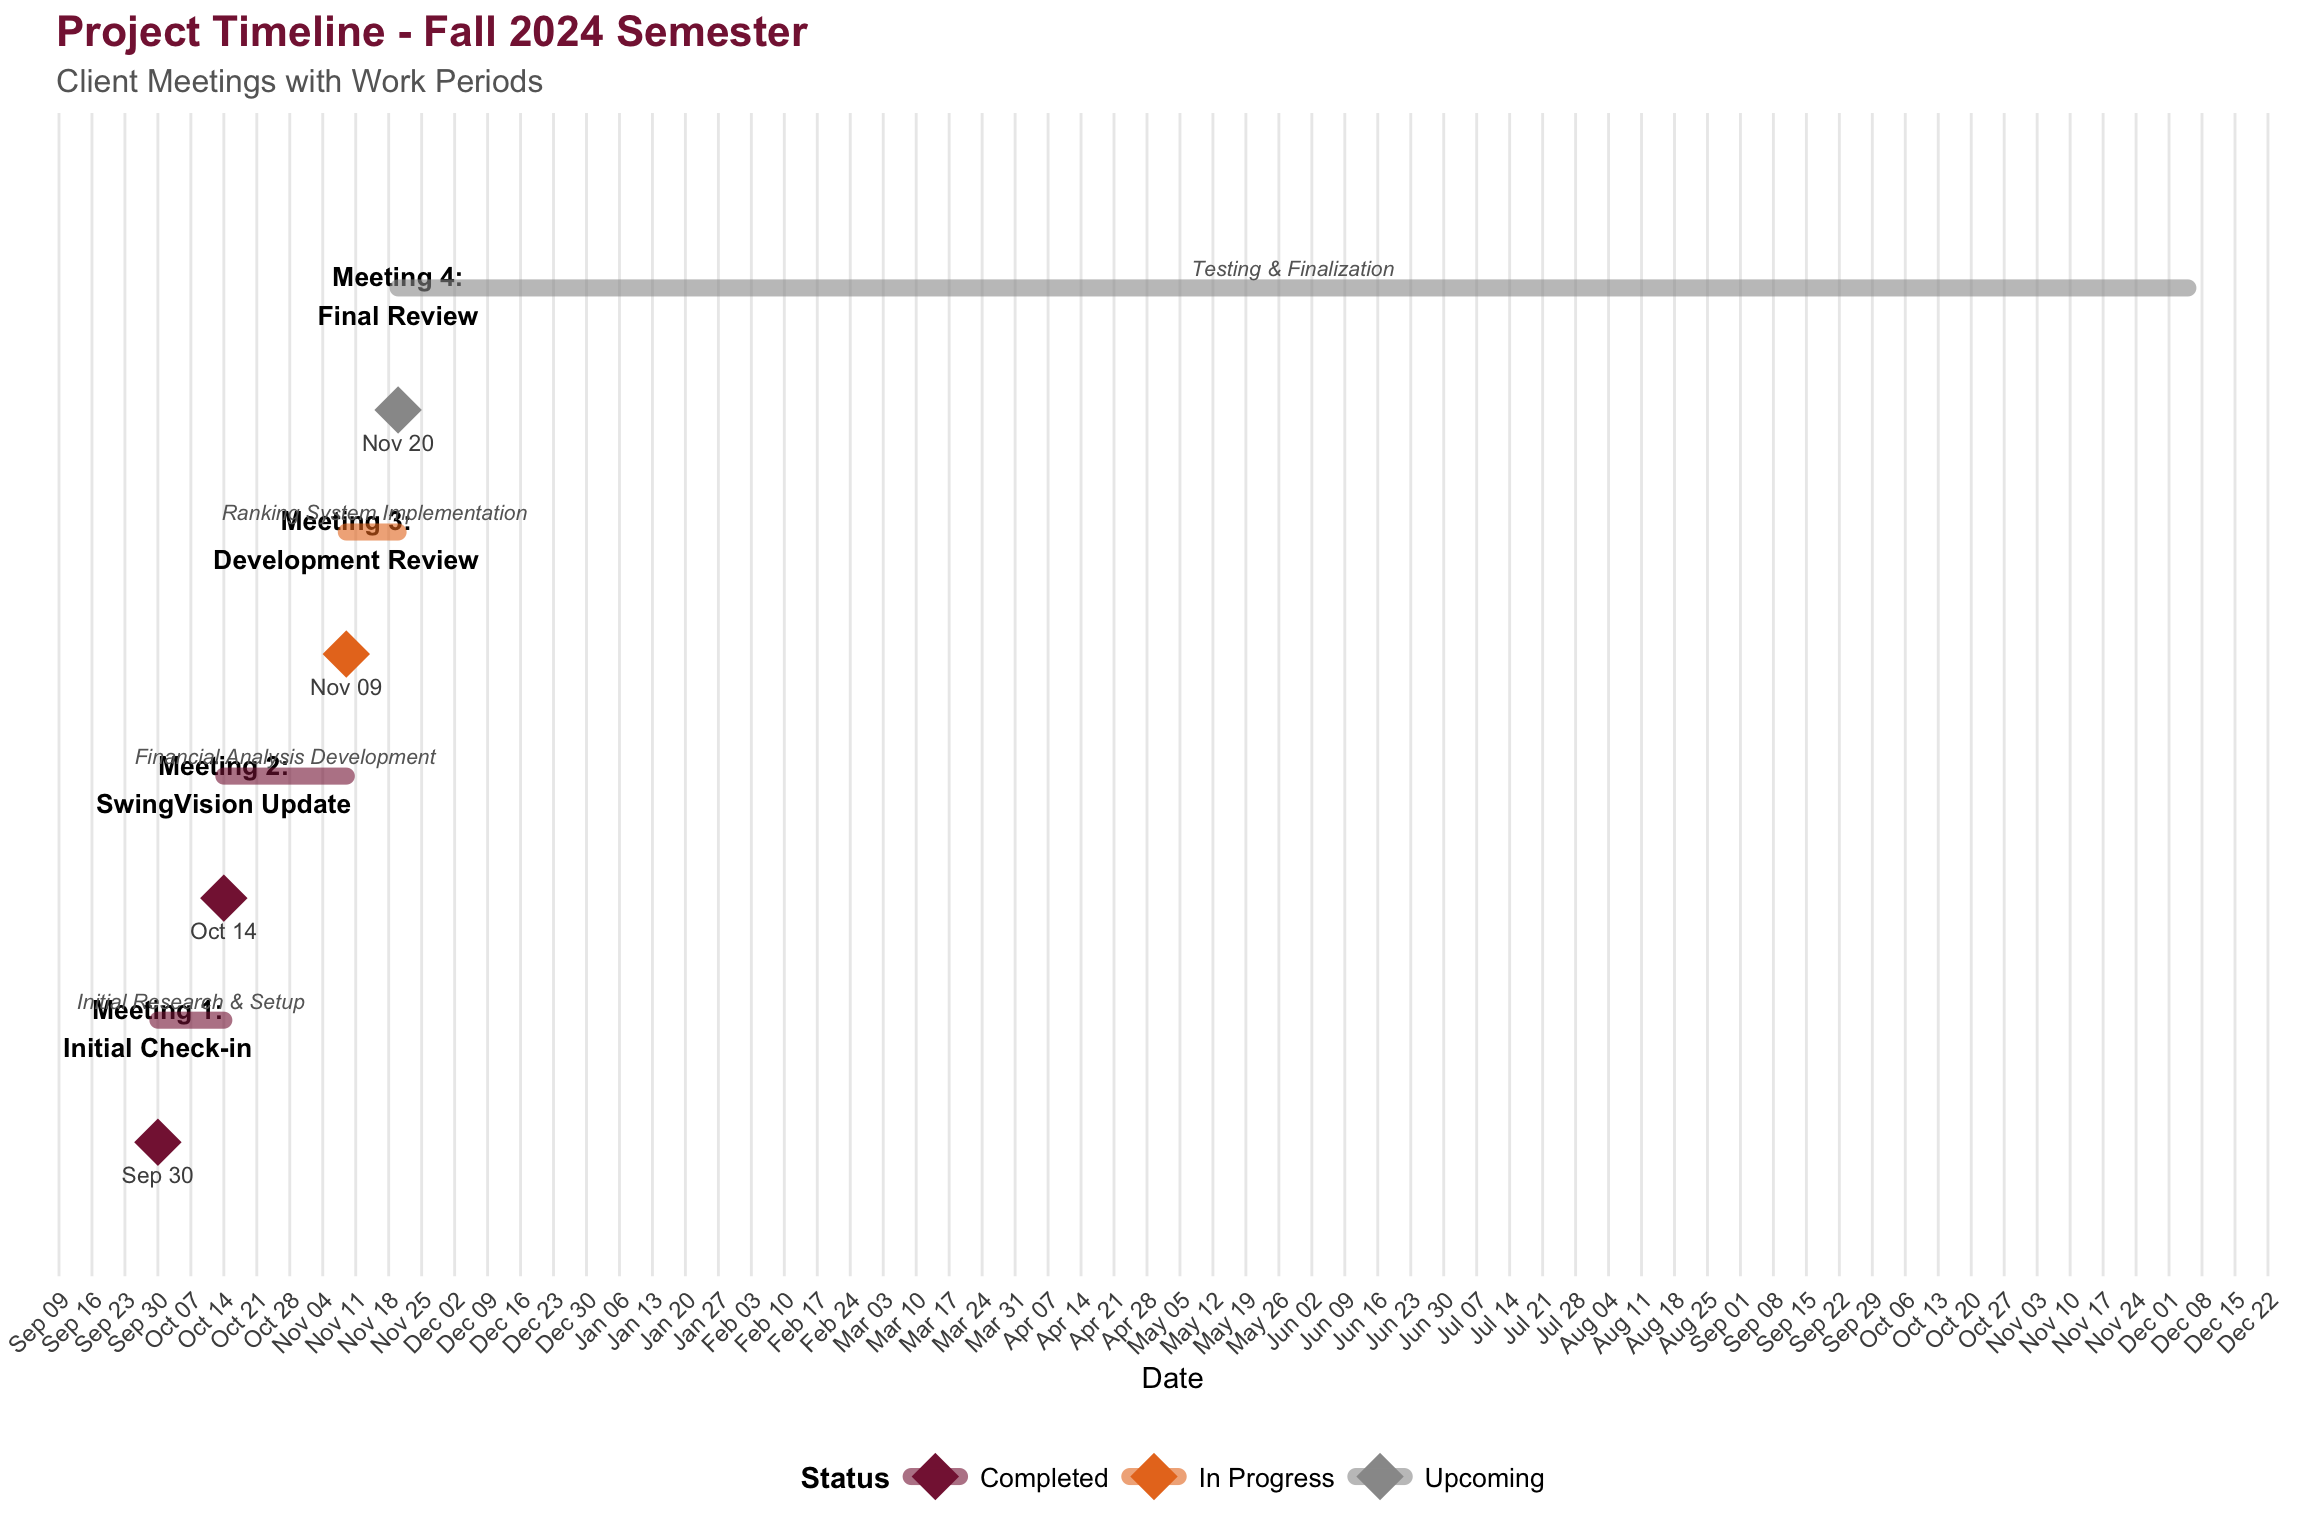
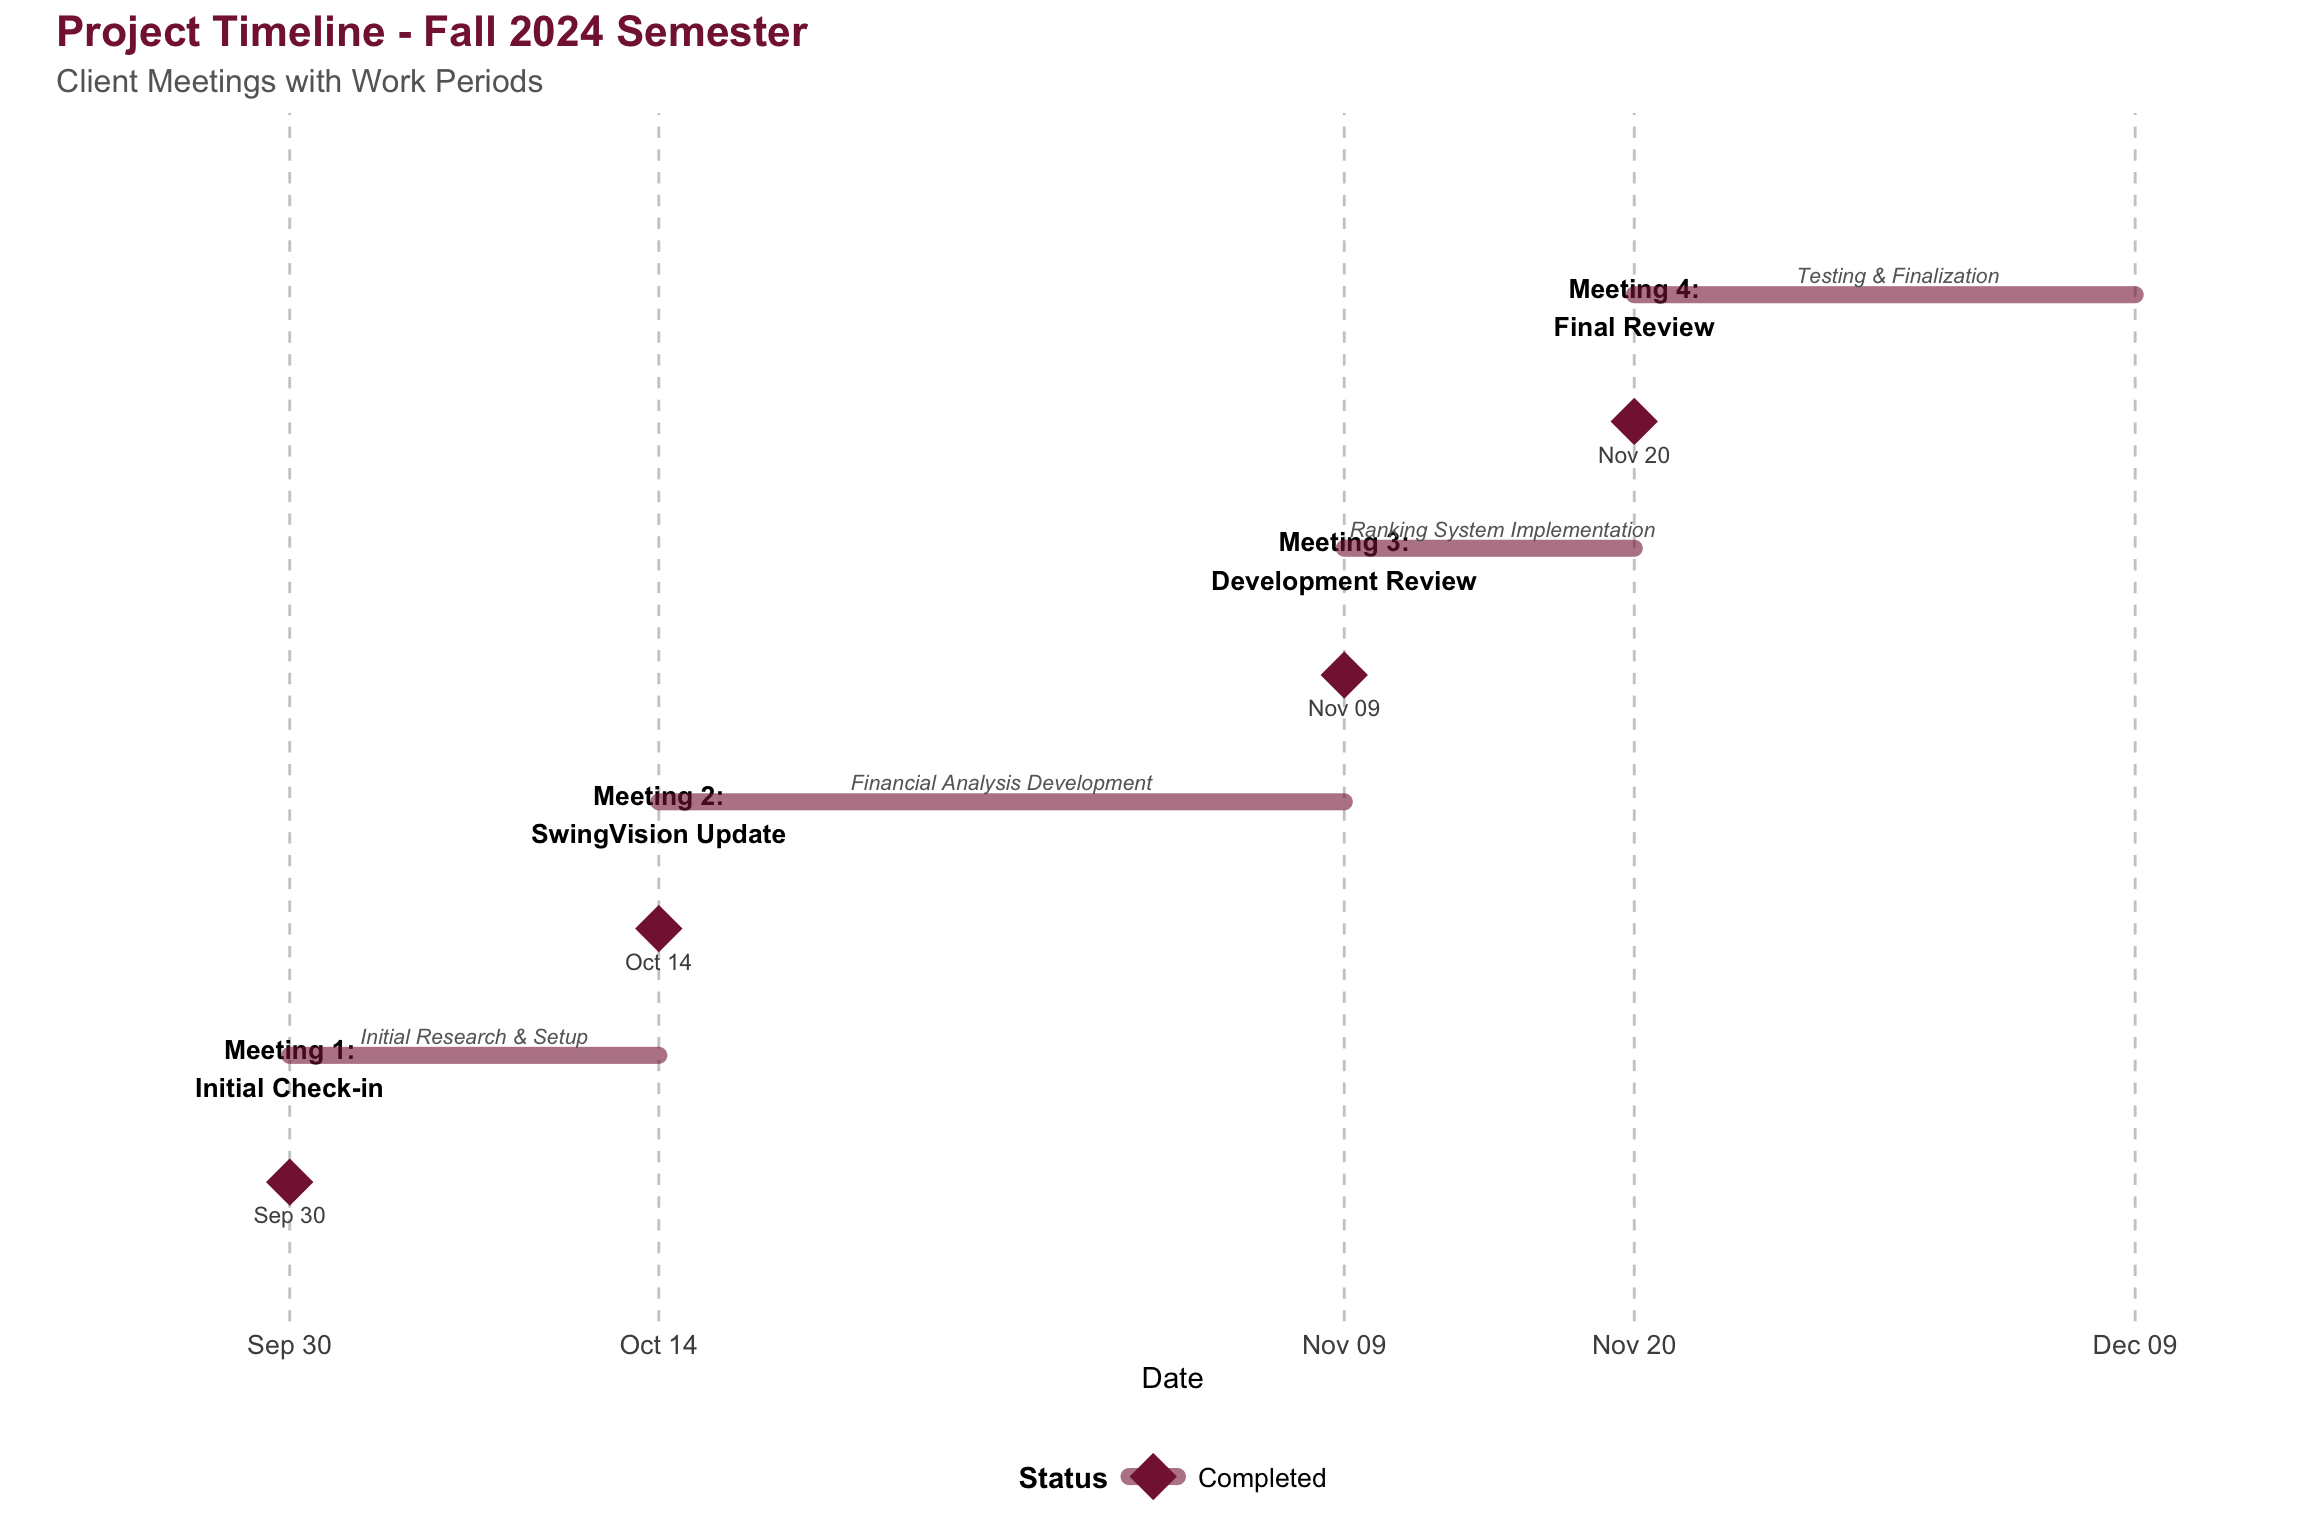
Built site for gh-pages

diff --git a/project_log.html b/project_log.html
@@ -100,7 +100,7 @@ ul.task-list li input[type="checkbox"] {
   </li>  
   <li class="nav-item">
     <a class="nav-link active" href="./project_log.html" aria-current="page"> 
-<span class="menu-text">Project Log</span></a>
+<span class="menu-text">Communication Log</span></a>
   </li>  
   <li class="nav-item dropdown ">
     <a class="nav-link dropdown-toggle" href="#" id="nav-menu-financial-analysis" role="link" data-bs-toggle="dropdown" aria-expanded="false">
@@ -290,6 +290,7 @@ ul.task-list li input[type="checkbox"] {
 </section>
 <section id="meeting-minutes" class="level3">
 <h3 class="anchored" data-anchor-id="meeting-minutes">Meeting Minutes</h3>
+<p><em>Note: Transcripts extracted from Notion AI</em></p>
 <details>
 <summary>
 Click to view conversation transcript
@@ -358,7 +359,6 @@ Click to view conversation transcript
 <li>Begin website structure development</li>
 <li>Research Elo rating system for tennis applications</li>
 </ul>
-<hr>
 </section>
 </section>
 <section id="meeting-2---october-14-2024-monday" class="level2">
@@ -386,6 +386,7 @@ Click to view conversation transcript
 </section>
 <section id="meeting-minutes-1" class="level3">
 <h3 class="anchored" data-anchor-id="meeting-minutes-1">Meeting Minutes</h3>
+<p><em>Note: Transcripts extracted from Notion AI</em></p>
 <details>
 <summary>
 Click to view conversation transcript
@@ -393,7 +394,7 @@ Click to view conversation transcript
 <p><strong>Kempton</strong>: “Are people free on Tuesday for a quick check in regarding SwingVision or alternatives? I was thinking 11:30ish again.”</p>
 <p><strong>Emma</strong>: “Works with me.”</p>
 <p><strong>Mitchell</strong>: “I have class at 11 but can talk with Emma after to cover things.”</p>
-<p><strong>Emma</strong>: “Also, SwingVision update - our office just submitted the final thing to IT, so hopefully shouldn’t be much longer. But if you guys need to continue because we’re in November and haven’t gotten it approved, I can keep providing budget data and we can work on that side of things. Sorry finances are boring!”</p>
+<p><strong>Emma</strong>: “Also, SwingVision update - our office just submitted the final thing to IT, so hopefully shouldn’t be much longer. But if you guys need to continue on because I know we’re in November and haven’t gotten it approved, I can keep providing you guys budget data and we can work on that side of things (sorry I know it’s boring, we all hate finances)!”</p>
 <p><strong>Caleb</strong>: “No worries at all, that works for us! I’ll send it when you get a chance and I’ll work on implementing it into our code to see if it can update anything! The interactive budget thing should be back online so feel free to play around with it and see if it fits what you guys need.”</p>
 <p><strong>Emma</strong>: “Okay yeah! I’ll play around with the budget site and we should be able to use that info for our budget meeting in December. I can also look around for dummy data sets from SwingVision so you guys can potentially use it to develop a system.”</p>
 <p><strong>Caleb</strong>: “If it turns out we can’t get the data in a timely manner we might be able to use some dummy data to build some sort of system that would be useful once you guys have the data! I personally don’t mind working on it a bit as we get into finals/next semester.”</p>
@@ -427,7 +428,8 @@ Click to view conversation transcript
 <li>Adopt VT’s official color scheme (Chicago Maroon #861F41 and Burnt Orange #E87722)</li>
 <li>Include legacy challenge ladder rules for context</li>
 <li>Interactive budget tool should allow scenario planning</li>
-<li>Ranking system will use Elo with K-factor of 32</li>
+<li>SwingVision procurement likely won’t be approved in time - pivot focus to financial tools and budget analysis</li>
+<li>Ranking system will use Elo with K-factor of 32 for initial implementation</li>
 </ul>
 </section>
 <section id="action-items-1" class="level3">
@@ -455,8 +457,6 @@ Click to view conversation transcript
 <li>Develop ranking system simulation with real roster</li>
 <li>Prepare progress update for next meeting</li>
 </ul>
-<hr>
-<hr>
 </section>
 </section>
 <section id="meeting-3---november-9-2024-saturday" class="level2">
@@ -480,6 +480,7 @@ Click to view conversation transcript
 </section>
 <section id="meeting-minutes-2" class="level3">
 <h3 class="anchored" data-anchor-id="meeting-minutes-2">Meeting Minutes</h3>
+<p><em>Note: Transcripts extracted from Notion AI</em></p>
 <details>
 <summary>
 Click to view conversation transcript
@@ -542,13 +543,15 @@ Click to view conversation transcript
 <li>Create “Project Log” page to document collaboration process</li>
 <li>Embed Google Sheets directly in Historical Review page</li>
 <li>Add more visual elements throughout site</li>
+<li>Pivot ranking system from pure Elo to UTR-inspired model based on Mitchell’s feedback</li>
 </ul>
 </section>
 <section id="client-feedback-1" class="level3">
 <h3 class="anchored" data-anchor-id="client-feedback-1">Client Feedback</h3>
 <ul>
 <li>Very satisfied with financial tools and visualizations</li>
-<li>Excited about quantitative approach to ranking system</li>
+<li>Mitchell raised concerns that pure Elo system might not work for their specific needs</li>
+<li>Suggested exploring UTR (Universal Tennis Rating) style system instead</li>
 <li>Requested minor styling adjustments</li>
 <li>Wanted project documentation for their records</li>
 </ul>
@@ -578,7 +581,6 @@ Click to view conversation transcript
 <li>Conduct final testing with client input</li>
 <li>Prepare wrap-up meeting and final presentation</li>
 </ul>
-<hr>
 </section>
 </section>
 <section id="meeting-4---november-20-2024-wednesday" class="level2">
@@ -601,6 +603,7 @@ Click to view conversation transcript
 </section>
 <section id="meeting-minutes-3" class="level3">
 <h3 class="anchored" data-anchor-id="meeting-minutes-3">Meeting Minutes</h3>
+<p><em>Note: Transcripts extracted from Notion AI</em></p>
 <details>
 <summary>
 Click to view conversation transcript
@@ -720,7 +723,7 @@ Click to view conversation transcript
 <td style="text-align: center;">✅ Completed</td>
 </tr>
 <tr class="odd">
-<td style="text-align: left;">Dec 5</td>
+<td style="text-align: left;">Dec 9</td>
 <td style="text-align: left;">Project Delivery</td>
 <td style="text-align: center;">⏳ Upcoming</td>
 </tr>

diff --git a/historical_review.html b/historical_review.html
@@ -7,7 +7,7 @@
 <meta name="viewport" content="width=device-width, initial-scale=1.0, user-scalable=yes">
 
 
-<title>Historical Review – VT Club Tennis Analysis</title>
+<title>historical_review – VT Club Tennis Analysis</title>
 <style>
 code{white-space: pre-wrap;}
 span.smallcaps{font-variant: small-caps;}
@@ -135,7 +135,7 @@ pre > code.sourceCode > span > a:first-child::before { text-decoration: underlin
   </li>  
   <li class="nav-item">
     <a class="nav-link" href="./project_log.html"> 
-<span class="menu-text">Project Log</span></a>
+<span class="menu-text">Communication Log</span></a>
   </li>  
   <li class="nav-item dropdown ">
     <a class="nav-link dropdown-toggle" href="#" id="nav-menu-financial-analysis" role="link" data-bs-toggle="dropdown" aria-expanded="false">
@@ -212,25 +212,9 @@ pre > code.sourceCode > span > a:first-child::before { text-decoration: underlin
 </nav>
     </div>
 <!-- main -->
-<main class="content" id="quarto-document-content">
-
-<header id="title-block-header" class="quarto-title-block default">
-<div class="quarto-title">
-<h1 class="title">Historical Review</h1>
-</div>
+<main class="content" id="quarto-document-content"><header id="title-block-header" class="quarto-title-block"></header>
 
 
-
-<div class="quarto-title-meta">
-
-    
-  
-    
-  </div>
-  
-
-
-</header>
 
 
 <section id="financial-transaction-ledger" class="level1">

diff --git a/about.html b/about.html
@@ -100,7 +100,7 @@ ul.task-list li input[type="checkbox"] {
   </li>  
   <li class="nav-item">
     <a class="nav-link" href="./project_log.html"> 
-<span class="menu-text">Project Log</span></a>
+<span class="menu-text">Communication Log</span></a>
   </li>  
   <li class="nav-item dropdown ">
     <a class="nav-link dropdown-toggle" href="#" id="nav-menu-financial-analysis" role="link" data-bs-toggle="dropdown" aria-expanded="false">

diff --git a/financial_analysis.html b/financial_analysis.html
@@ -101,7 +101,7 @@ ul.task-list li input[type="checkbox"] {
   </li>  
   <li class="nav-item">
     <a class="nav-link" href="./project_log.html"> 
-<span class="menu-text">Project Log</span></a>
+<span class="menu-text">Communication Log</span></a>
   </li>  
   <li class="nav-item dropdown ">
     <a class="nav-link dropdown-toggle" href="#" id="nav-menu-financial-analysis" role="link" data-bs-toggle="dropdown" aria-expanded="false">

diff --git a/financial_tools.html b/financial_tools.html
@@ -106,7 +106,7 @@ ul.task-list li input[type="checkbox"] {
   </li>  
   <li class="nav-item">
     <a class="nav-link" href="./project_log.html"> 
-<span class="menu-text">Project Log</span></a>
+<span class="menu-text">Communication Log</span></a>
   </li>  
   <li class="nav-item dropdown ">
     <a class="nav-link dropdown-toggle" href="#" id="nav-menu-financial-analysis" role="link" data-bs-toggle="dropdown" aria-expanded="false">

diff --git a/main.html b/main.html
@@ -100,7 +100,7 @@ ul.task-list li input[type="checkbox"] {
   </li>  
   <li class="nav-item">
     <a class="nav-link" href="./project_log.html"> 
-<span class="menu-text">Project Log</span></a>
+<span class="menu-text">Communication Log</span></a>
   </li>  
   <li class="nav-item dropdown ">
     <a class="nav-link dropdown-toggle" href="#" id="nav-menu-financial-analysis" role="link" data-bs-toggle="dropdown" aria-expanded="false">

diff --git a/performance_analysis.html b/performance_analysis.html
@@ -101,7 +101,7 @@ ul.task-list li input[type="checkbox"] {
   </li>  
   <li class="nav-item">
     <a class="nav-link" href="./project_log.html"> 
-<span class="menu-text">Project Log</span></a>
+<span class="menu-text">Communication Log</span></a>
   </li>  
   <li class="nav-item dropdown ">
     <a class="nav-link dropdown-toggle" href="#" id="nav-menu-financial-analysis" role="link" data-bs-toggle="dropdown" aria-expanded="false">

diff --git a/rank_ladder.html b/rank_ladder.html
@@ -110,7 +110,7 @@ ul.task-list li input[type="checkbox"] {
   </li>  
   <li class="nav-item">
     <a class="nav-link" href="./project_log.html"> 
-<span class="menu-text">Project Log</span></a>
+<span class="menu-text">Communication Log</span></a>
   </li>  
   <li class="nav-item dropdown ">
     <a class="nav-link dropdown-toggle" href="#" id="nav-menu-financial-analysis" role="link" data-bs-toggle="dropdown" aria-expanded="false">
